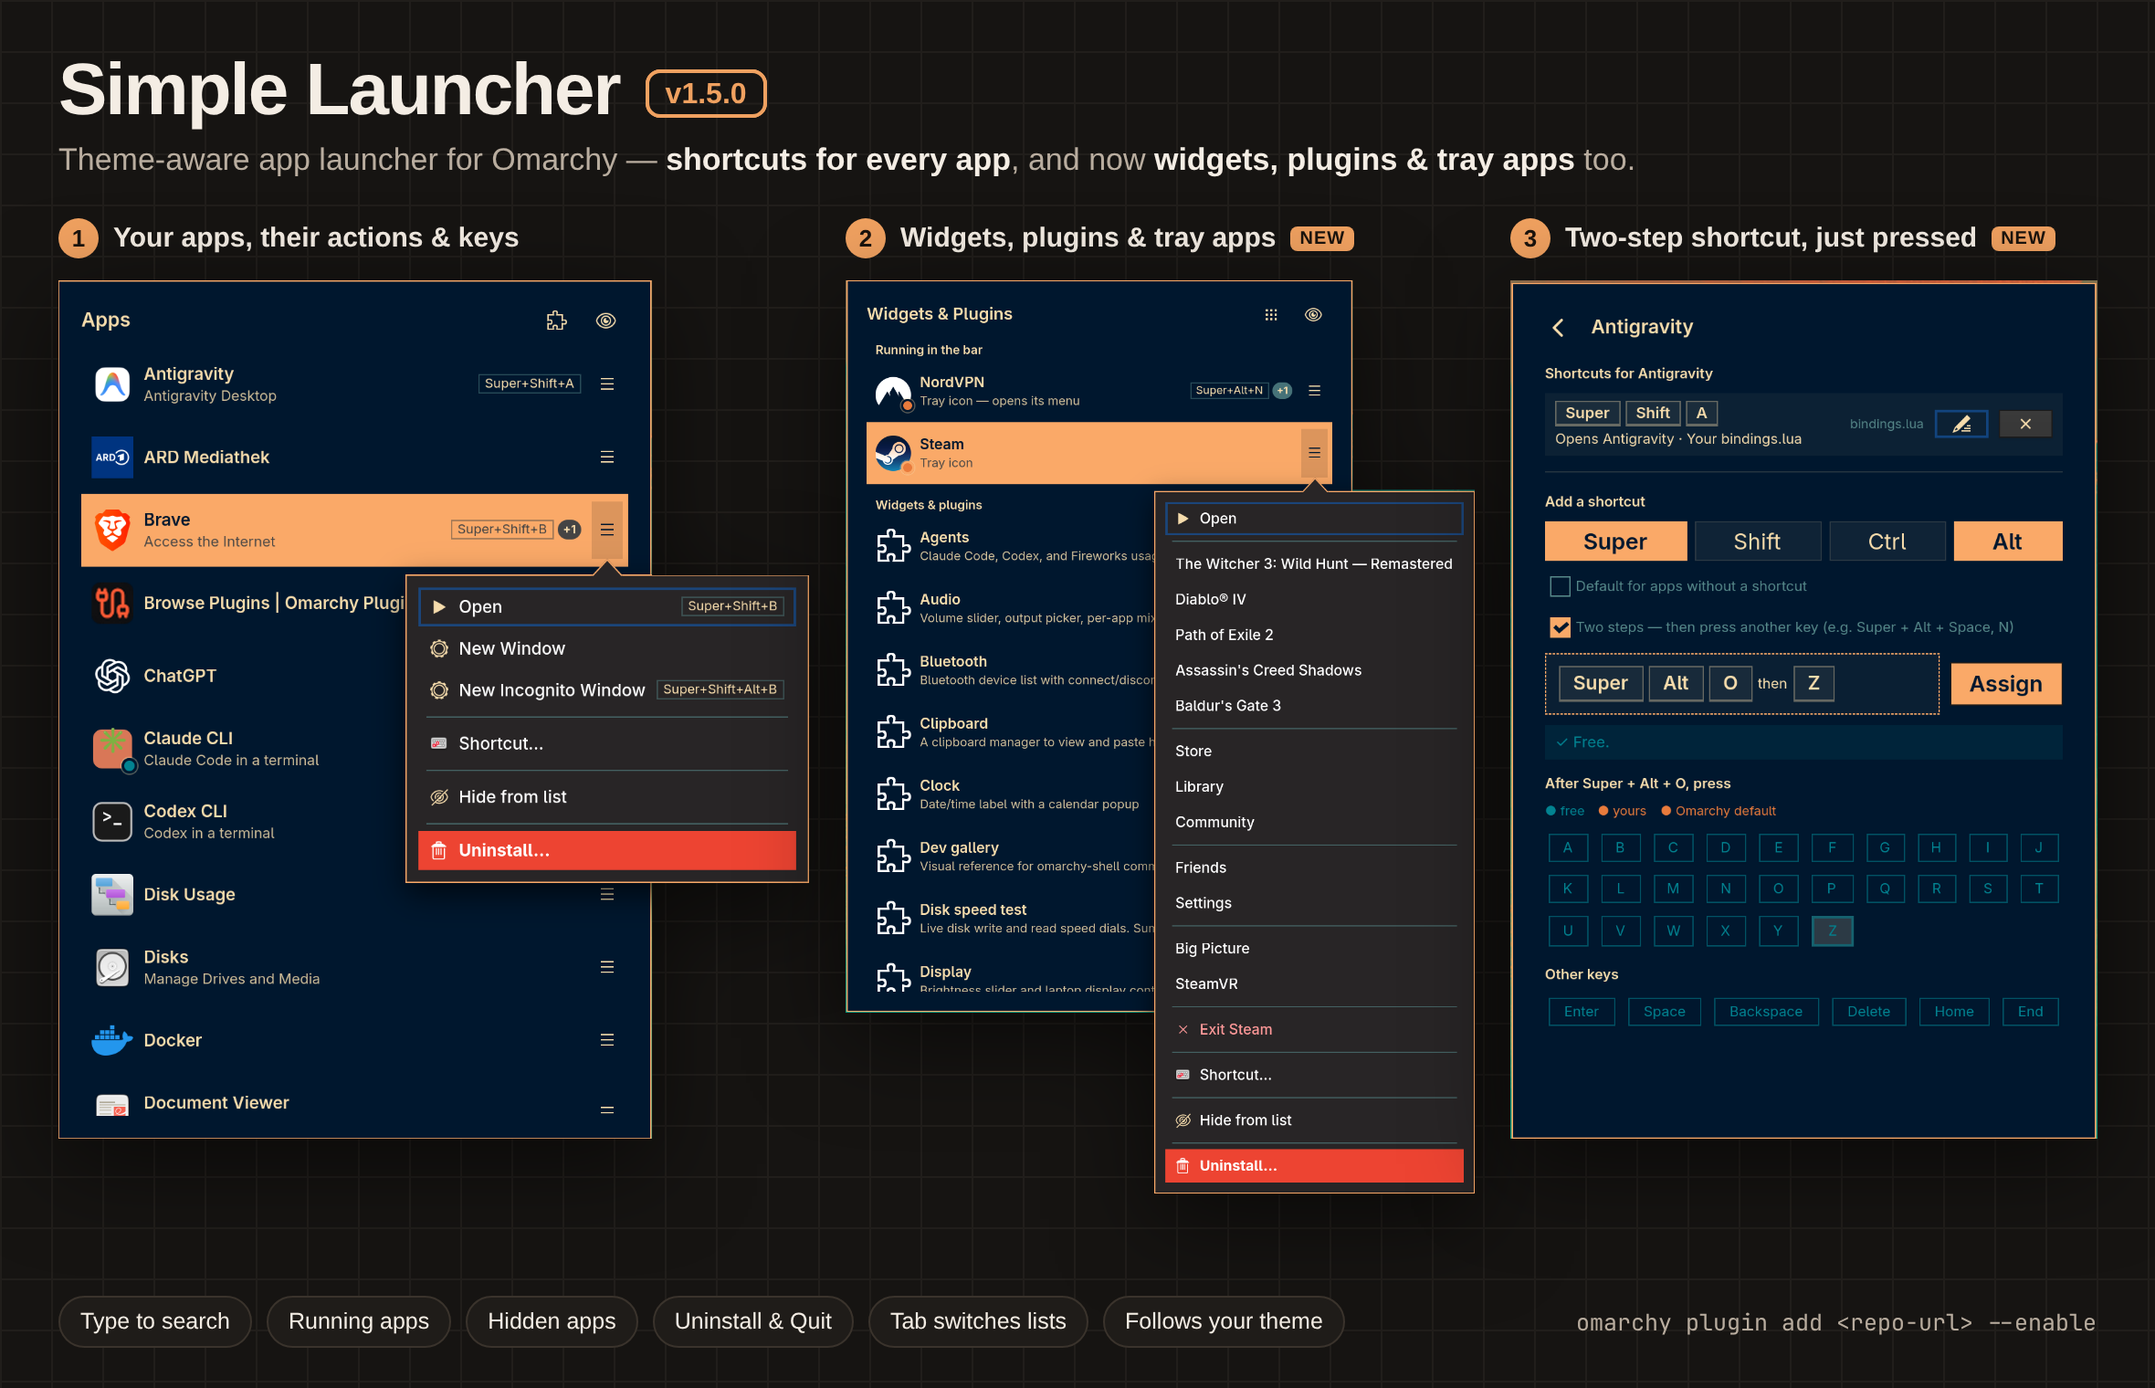
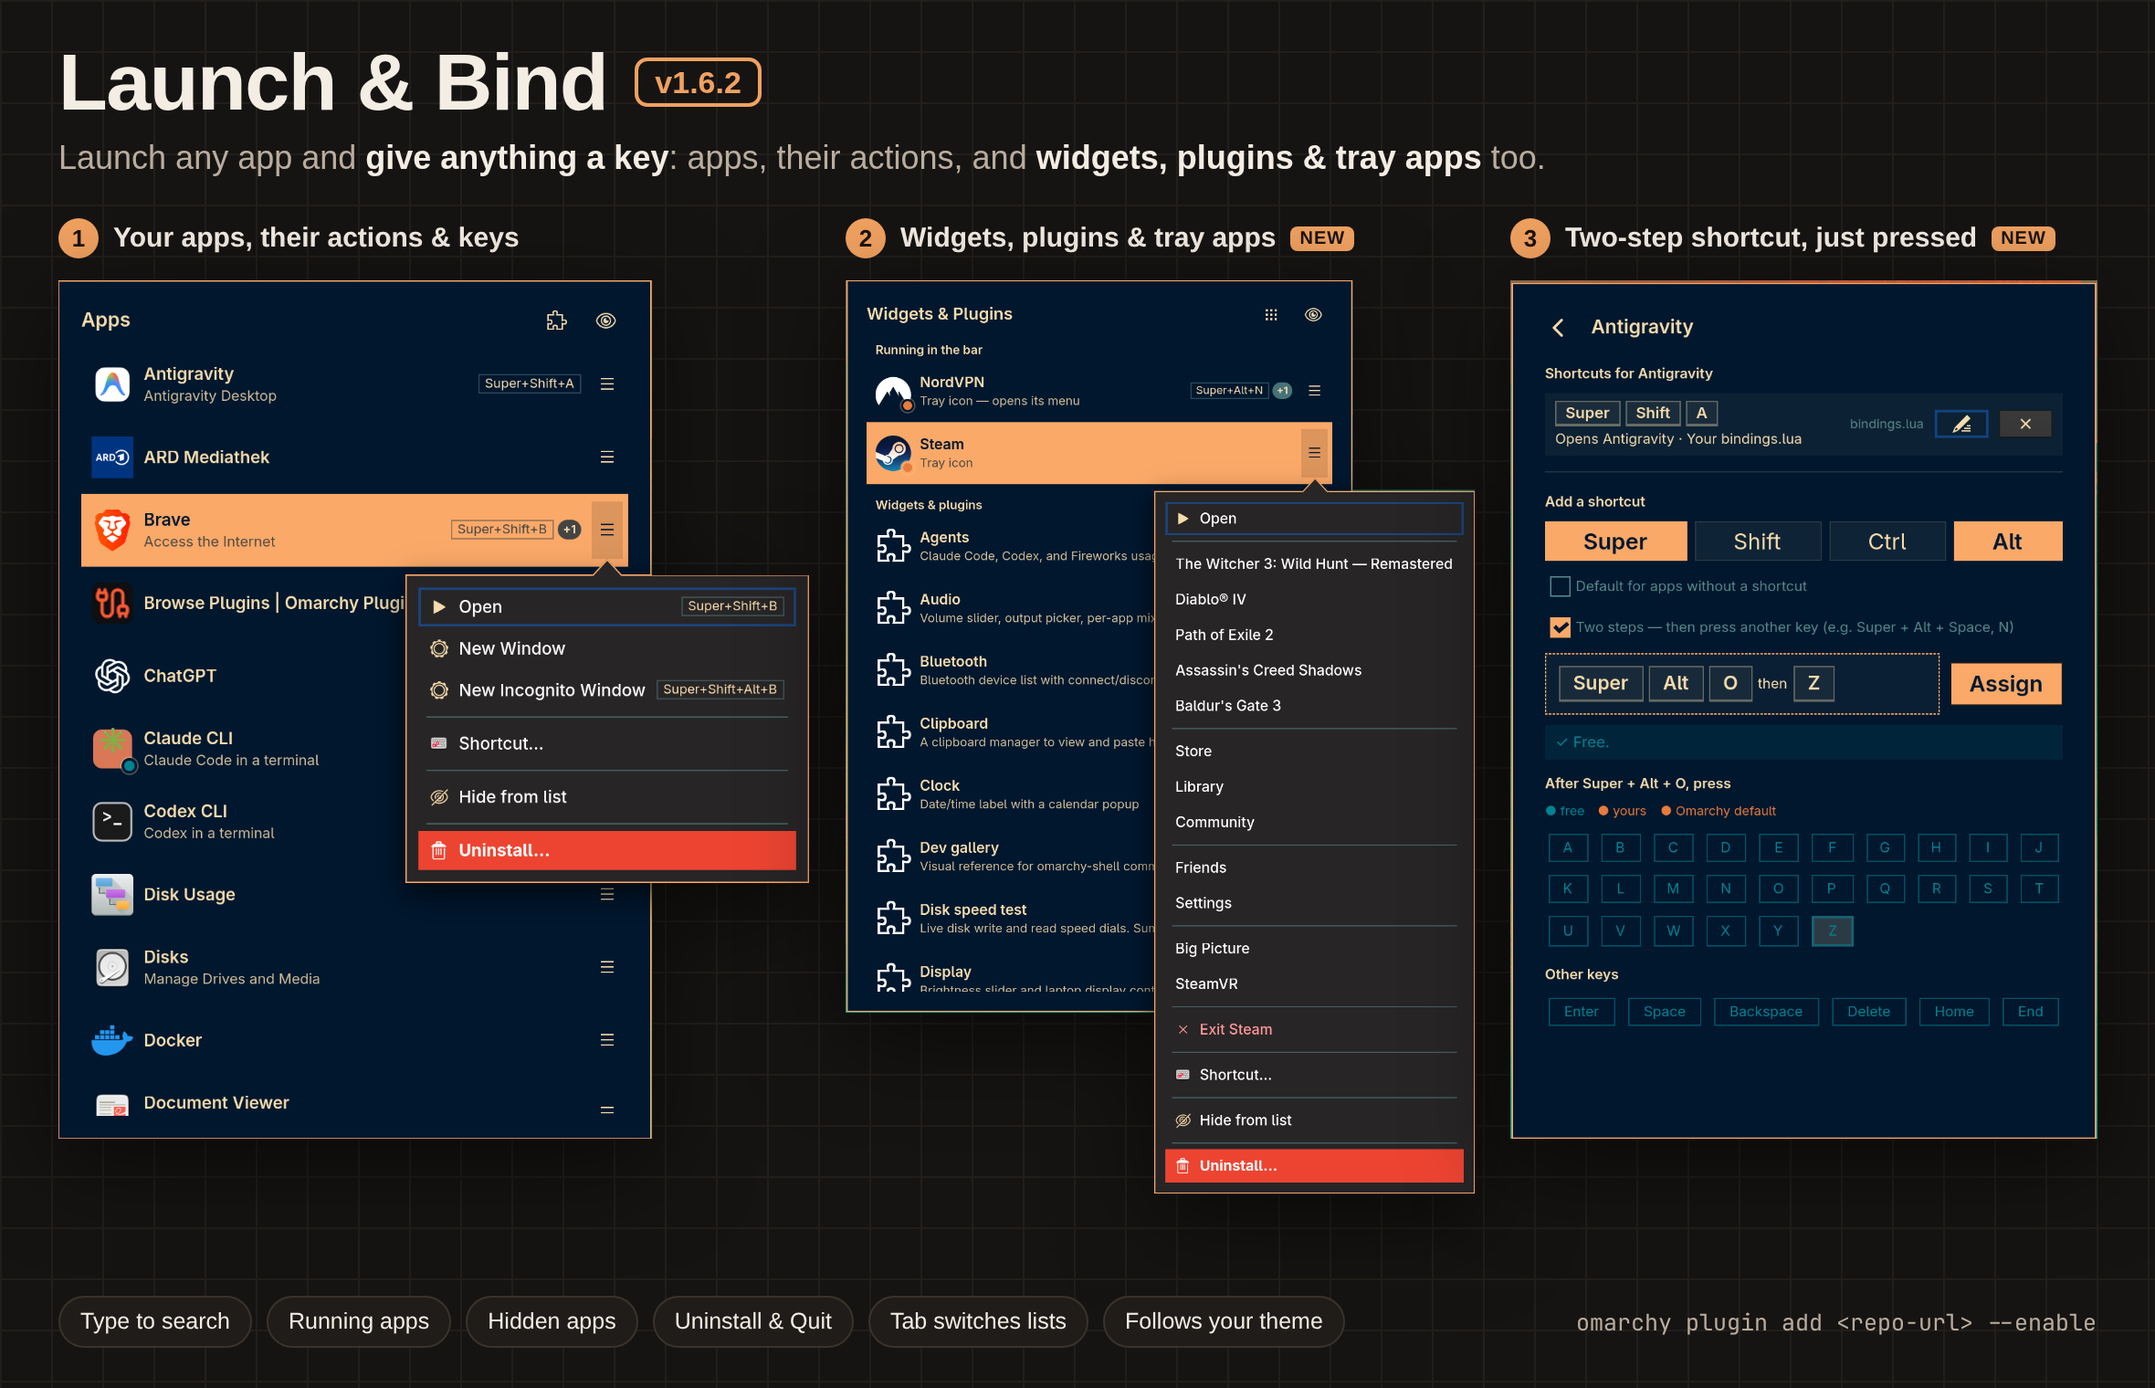
Rename Simple Launcher to Launch & Bind (1.6.2)
The plugin does much more than launch apps (shortcut editor, widgets,
plugins and tray apps), so the display name now says so. The plugin ID,
install path, settings and generated shortcut files are unchanged.

Changed region(s): [[0.0309, 0.0309, 0.7424, 0.1237]]

diff --git a/BarWidget.qml b/BarWidget.qml
@@ -18,7 +18,7 @@ BarWidget {
     anchors.fill: parent
     bar: root.bar
     text: "\uf00a"
-    tooltipText: "Simple Launcher"
+    tooltipText: "Launch & Bind"
 
     onPressed: function(mouseButton) {
       if (!root.bar) return

diff --git a/tests/test_plugins.py b/tests/test_plugins.py
@@ -61,10 +61,10 @@ class LauncherShortcutTests(unittest.TestCase):
         self.assertEqual(launch, [shortcuts.SELF_TOGGLE])
         self.assertTrue(Path(launch[0]).is_file())
         self.assertFalse(shortcuts.launch_target_missing(launch))
-        state = {"apps": {entry["desktop_id"]: {"name": "Simple Launcher", "launch": launch, "disabled": [],
+        state = {"apps": {entry["desktop_id"]: {"name": "Launch & Bind", "launch": launch, "disabled": [],
                  "shortcuts": [{"mods": ["SUPER", "ALT"], "key": "space", "replaces": "", "action": ""}]}}}
         lua = shortcuts.render_lua(state)
-        self.assertIn(f'o.bind("SUPER + ALT + space", "Simple Launcher", "{shortcuts.SELF_TOGGLE}")', lua)
+        self.assertIn(f'o.bind("SUPER + ALT + space", "Launch & Bind", "{shortcuts.SELF_TOGGLE}")', lua)
         self.assertNotIn("uwsm-app", lua)
 
     def test_launcher_list_shortcuts_pass_the_list(self):
@@ -72,7 +72,7 @@ class LauncherShortcutTests(unittest.TestCase):
         self.assertEqual([a["id"] for a in entry["actions"]], ["apps", "plugins"])
         launch = shortcuts.app_launch_argv(entry)
         self.assertEqual(shortcuts.shortcut_launch(launch, "plugins"), [shortcuts.SELF_TOGGLE, "plugins"])
-        state = {"apps": {entry["desktop_id"]: {"name": "Simple Launcher", "launch": launch, "disabled": [],
+        state = {"apps": {entry["desktop_id"]: {"name": "Launch & Bind", "launch": launch, "disabled": [],
                  "shortcuts": [{"mods": ["SUPER", "ALT"], "key": "W", "replaces": "", "action": "plugins"}]}}}
         self.assertIn(f'"{shortcuts.SELF_TOGGLE} plugins")', shortcuts.render_lua(state))
 
@@ -163,7 +163,7 @@ class PluginDiscoveryTests(unittest.TestCase):
 
     def test_parse_plugins_without_shell_lists_only_the_launcher(self):
         with mock.patch.object(launcher_core.shutil, "which", return_value=None):
-            self.assertEqual([p["name"] for p in launcher_core.parse_plugins()], ["Simple Launcher"])
+            self.assertEqual([p["name"] for p in launcher_core.parse_plugins()], ["Launch & Bind"])
 
     def test_open_plugin_reports_shell_answer(self):
         read = mock.Mock(return_value="unknown\n")

diff --git a/shortcuts.py b/shortcuts.py
@@ -1,4 +1,4 @@
-"""Simple Launcher - global app shortcuts managed through Hyprland.
+"""Launch & Bind - global app shortcuts managed through Hyprland.
 
 Shortcuts are stored in ~/.config/applauncher/shortcuts.json and rendered to
 ~/.config/hypr/simple-launcher-shortcuts.lua, which hyprland.lua requires last
@@ -893,7 +893,7 @@ def submap_name(first):
 
 
 def render_lua(state):
-    lines = ["-- Managed by Simple Launcher (ubruckhaus.simple-launcher-for-fools).",
+    lines = ["-- Managed by Launch & Bind (ubruckhaus.simple-launcher-for-fools).",
              "-- Edit shortcuts from the launcher; manual changes here are overwritten.", ""]
     sequences = {}  # first step id -> (first step, [(entry, combo, command)])
     for app_id in sorted(state["apps"], key=lambda k: state["apps"][k]["name"].casefold()):
@@ -943,7 +943,7 @@ def render_lua(state):
         lines.append("end)")
         summary = ", ".join(f"{key_label(c['then'])} {e['name']}" for e, c, _l in items)
         lines.append(f"hl.bind({lua_string(combo_string(first))}, hl.dsp.submap({lua_string(name)}), "
-                     f"{{ description = {lua_string(('Simple Launcher, then: ' + summary)[:160])} }})")
+                     f"{{ description = {lua_string(('Launch & Bind, then: ' + summary)[:160])} }})")
         lines.append("")
     return "\n".join(lines)
 
@@ -961,7 +961,7 @@ def ensure_required():
         shutil.copy2(HYPR_MAIN, backup)
     suffix = "" if text.endswith("\n") else "\n"
     _atomic_write(HYPR_MAIN, text + suffix +
-                  "\n-- Simple Launcher app shortcuts (keep last so they override defaults)\n"
+                  "\n-- Launch & Bind app shortcuts (keep last so they override defaults)\n"
                   + REQUIRE_LINE + "\n")
 
 

diff --git a/launcher_popup.py b/launcher_popup.py
@@ -243,7 +243,7 @@ class Launcher(Gtk.Application):
     def build_window(self):
         window = Gtk.ApplicationWindow(application=self)
         window.set_decorated(False)
-        window.set_title("Simple Launcher")
+        window.set_title("Launch & Bind")
         window.set_name("launcher-window")
         Gtk4LayerShell.init_for_window(window)
         Gtk4LayerShell.set_namespace(window, "simple-launcher-for-fools")
@@ -1681,7 +1681,7 @@ class Launcher(Gtk.Application):
         # Names come from apps, plugins and tray menus; notification daemons
         # render markup, so none of it may reach them as markup.
         try:
-            subprocess.Popen(["notify-send", "-a", "Simple Launcher", plain_text(title), plain_text(body)],
+            subprocess.Popen(["notify-send", "-a", "Launch & Bind", plain_text(title), plain_text(body)],
                              stdout=subprocess.DEVNULL, stderr=subprocess.DEVNULL, start_new_session=True)
         except OSError:
             pass

diff --git a/launcher_core.py b/launcher_core.py
@@ -372,7 +372,7 @@ def plugin_can_open(directory, manifest):
 def self_entry(in_bar=None):
     """The launcher itself, listed so its own shortcut can be set."""
     return {
-        "name": "Simple Launcher",
+        "name": "Launch & Bind",
         "plugin_id": SELF_PLUGIN_ID,
         "self_launcher": True,
         "exec": str(Path(__file__).resolve().parent / "launcher-toggle"),

diff --git a/tray.py b/tray.py
@@ -1,5 +1,5 @@
 #!/usr/bin/env python3
-"""Simple Launcher - tray icons (StatusNotifierItem) and their menus.
+"""Launch & Bind - tray icons (StatusNotifierItem) and their menus.
 
 Used by the launcher's widget list, and as a command for shortcuts:
 

diff --git a/palette.py b/palette.py
@@ -1,4 +1,4 @@
-"""Simple Launcher - Theme colors from Omarchy."""
+"""Launch & Bind - Theme colors from Omarchy."""
 
 from pathlib import Path
 import tomllib

diff --git a/README.md b/README.md
@@ -1,8 +1,10 @@
-# Simple Launcher
+# Launch & Bind
 
 Fast, theme-aware application launcher popup and bar widget for [Omarchy](https://omarchy.org) — with an advanced shortcut editor: bind keys to apps **or their actions**, see who owns every key, and rebind any of them in one click.
 
-![Simple Launcher](preview.png)
+![Launch & Bind](preview.png)
+
+**New in 1.6.2:** Simple Launcher is now called **Launch & Bind**, because it does much more than launch apps. Nothing else changes: the plugin ID, install path, settings and your shortcuts stay as they are.
 
 **New in 1.6:** shortcuts of uninstalled apps are cleaned up right away, and hand-written ones in your Hyprland files are deleted only after you say yes; menus open on their first entry, mouse and keyboard share one highlight, and Left or Backspace closes a menu again; **Uninstall…** explains how to remove browser web apps (Chrome, Brave, …) and tells you when it fails; the list keeps its height and its search when switching lists.
 
@@ -22,7 +24,7 @@ Open an app's menu (`☰`, `→`) → **Shortcut…**, or press `Ctrl+K`.
 
 ## Changes in 1.5.0
 
-**Bar placement from the widget list.** Every widget with something to open is listed, in the bar or not. Bar parts with nothing to open — Workspaces, System tray, Indicators, Keyboard layout, or widgets like Simple Recipes whose icon only runs a command — are not listed at all. A widget's `☰` menu has **Remove from bar** or **Add to bar ›**, which asks for the section — **Left**, **Center** or **Right**, the widget's own default marked (Omarchy's `omarchy plugin disable` / `enable <id> <section>`); widgets that are not in the bar count as hidden: they show (dimmed, marked *Not in bar*) only while the eye shows hidden entries, so a removed widget leaves the list and comes back with **Add to bar**. Simple Launcher's own entry always stays. A widget out of the bar has no **Open** and no **Shortcut…** until it is back, because its panel opens from its bar button. **Hide from list** stays separate: it only hides the entry in the launcher.
+**Bar placement from the widget list.** Every widget with something to open is listed, in the bar or not. Bar parts with nothing to open — Workspaces, System tray, Indicators, Keyboard layout, or widgets like Simple Recipes whose icon only runs a command — are not listed at all. A widget's `☰` menu has **Remove from bar** or **Add to bar ›**, which asks for the section — **Left**, **Center** or **Right**, the widget's own default marked (Omarchy's `omarchy plugin disable` / `enable <id> <section>`); widgets that are not in the bar count as hidden: they show (dimmed, marked *Not in bar*) only while the eye shows hidden entries, so a removed widget leaves the list and comes back with **Add to bar**. Launch & Bind's own entry always stays. A widget out of the bar has no **Open** and no **Shortcut…** until it is back, because its panel opens from its bar button. **Hide from list** stays separate: it only hides the entry in the launcher.
 
 ## Changes in 1.4.1
 
@@ -44,7 +46,7 @@ New plugins show up in the open list on their own, like newly installed apps: th
 
 **Two-step shortcuts**: tick **Two steps** on the shortcut page, choose the first combo (e.g. `Super + Alt + Space`), then the second key on its own (e.g. `N`) — press it or click a letter; a second click clears it, like every key button. Several shortcuts can share a first combo, each with its own second key; the letters show which second keys are free. The first combo enters a Hyprland submap where the second key runs the shortcut and any other key cancels. A first combo cannot open anything by itself, so it conflicts with one-step shortcuts on the same keys (shown and rebindable like any other conflict).
 
-**Simple Launcher** itself is in the widget list too: Enter or **Shortcut…** opens its shortcut page, so the keys that open the launcher are set the same way as any app's.
+**Launch & Bind** itself is in the widget list too: Enter or **Shortcut…** opens its shortcut page, so the keys that open the launcher are set the same way as any app's.
 
 Its `☰` menu has **Show apps** and **Show widgets & plugins**, and on the shortcut page **Opens** offers the same choice, so each list can get its own key (e.g. `Super + Alt + A` for apps, `Super + Alt + W` for widgets). Such a key opens the launcher on that list, switches an open launcher over to it, and closes it when that list is already showing. By hand: `launcher-toggle apps` or `launcher-toggle plugins`.
 
@@ -104,12 +106,12 @@ Or install locally:
 
 ## Keybindings (Optional)
 
-The easiest way: switch to **Widgets & Plugins** (`Tab`), select **Simple Launcher** and press Enter (or `☰` → **Shortcut…**). Assign one or more keys there; a binding you already wrote by hand shows up too and can be changed or turned off like any other.
+The easiest way: switch to **Widgets & Plugins** (`Tab`), select **Launch & Bind** and press Enter (or `☰` → **Shortcut…**). Assign one or more keys there; a binding you already wrote by hand shows up too and can be changed or turned off like any other.
 
 To bind it by hand instead (such as `SUPER + SPACE`), add the following to `~/.config/hypr/bindings.lua`:
 
 ```lua
-o.bind("SUPER, SPACE", "Simple Launcher", "~/.config/omarchy/plugins/ubruckhaus.simple-launcher-for-fools/launcher-toggle")
+o.bind("SUPER, SPACE", "Launch & Bind", "~/.config/omarchy/plugins/ubruckhaus.simple-launcher-for-fools/launcher-toggle")
 ```
 
 `launcher-toggle apps` and `launcher-toggle plugins` open a specific list.
@@ -117,7 +119,7 @@ o.bind("SUPER, SPACE", "Simple Launcher", "~/.config/omarchy/plugins/ubruckhaus.
 Or for `SUPER + CTRL + ALT + SPACE`:
 
 ```lua
-o.bind("SUPER + CTRL + ALT + SPACE", "Simple Launcher", "~/.config/omarchy/plugins/ubruckhaus.simple-launcher-for-fools/launcher-toggle")
+o.bind("SUPER + CTRL + ALT + SPACE", "Launch & Bind", "~/.config/omarchy/plugins/ubruckhaus.simple-launcher-for-fools/launcher-toggle")
 ```
 
 ## App Shortcuts

diff --git a/MARKETPLACE.md b/MARKETPLACE.md
@@ -1,14 +1,14 @@
-# Marketplace Publication Listing: Simple Launcher
+# Marketplace Publication Listing: Launch & Bind
 
-This document contains the ready-to-use copy, metadata, and feature breakdown for submitting **Simple Launcher** to the [Omarchy Plugin Marketplace](https://plugins.omarchy.org) and `omacom/omarchy-plugin-marketplace`.
+This document contains the ready-to-use copy, metadata, and feature breakdown for submitting **Launch & Bind** to the [Omarchy Plugin Marketplace](https://plugins.omarchy.org) and `omacom/omarchy-plugin-marketplace`.
 
 ---
 
 ## 📋 Marketplace Metadata Sheet
 
 - **Plugin ID**: `ubruckhaus.simple-launcher-for-fools`
-- **Display Name**: `Simple Launcher`
-- **Version**: `1.6.1`
+- **Display Name**: `Launch & Bind`
+- **Version**: `1.6.2`
 - **Author**: `Uwe Bruckhaus`
 - **Category**: `Desktop`
 - **Tags**: `launcher`, `bar`, `quickshell`
@@ -26,7 +26,7 @@ This document contains the ready-to-use copy, metadata, and feature breakdown fo
 
 ## 📝 Full Marketplace Description
 
-**Simple Launcher** brings a lightning-fast, distraction-free application launcher to your Omarchy desktop. Designed to fit naturally into the Omarchy aesthetic, it pairs a native Quickshell status-bar widget with a high-performance GTK4 Layer-Shell overlay.
+**Launch & Bind** brings a lightning-fast, distraction-free application launcher to your Omarchy desktop. Designed to fit naturally into the Omarchy aesthetic, it pairs a native Quickshell status-bar widget with a high-performance GTK4 Layer-Shell overlay.
 
 Whether summoned with a click on the status bar or via a global Hyprland keybinding, the launcher appears instantly above all tiled and floating windows. Start typing immediately to filter your tools, jump straight to running applications, or manage distracting helper utilities with built-in app concealment.
 
@@ -42,7 +42,7 @@ Whether summoned with a click on the status bar or via a global Hyprland keybind
 - **Quit background apps**: apps running in the tray or background get **Quit** next to **Close**, using the app's own tray Quit for a clean exit.
 - **Two-step shortcuts**: `Super + Alt + Space`, then `N`. Several shortcuts can share the first step; the letters show which second keys are free. Built on a Hyprland submap; any other key cancels.
 - **Just press the keys**: while the shortcut page is open, every combo reaches it — even ones Omarchy already uses — and a combo followed quickly by a single key becomes a two-step shortcut. Clicking a picked key again clears it.
-- **Keys for the launcher itself**: Simple Launcher is in the widget list, with **Show apps** and **Show widgets & plugins** — give each list its own key.
+- **Keys for the launcher itself**: Launch & Bind is in the widget list, with **Show apps** and **Show widgets & plugins** — give each list its own key.
 
 **New in 1.3.5 — tidier shortcut editor.** The shortcut page has no visible scrollbar, uses the same edge gaps as the app list, and the Assign button sits beside the key being defined instead of below all keys.
 
@@ -56,7 +56,7 @@ Whether summoned with a click on the status bar or via a global Hyprland keybind
 
 New in 1.2: Omarchy's default app shortcuts show up on their apps, every app's shortcut is shown as a badge in the list, terminal apps like `foot -e claude` are tracked as their own app, and the running badge sits on the app icon.
 
-New in 1.1: give any app its own global Hyprland shortcut straight from the launcher. Pick modifiers, press a key or click a free one, and Simple Launcher tells you whether the combination is free, already one of your own bindings, or an Omarchy default — before anything changes.
+New in 1.1: give any app its own global Hyprland shortcut straight from the launcher. Pick modifiers, press a key or click a free one, and Launch & Bind tells you whether the combination is free, already one of your own bindings, or an Omarchy default — before anything changes.
 
 ---
 
